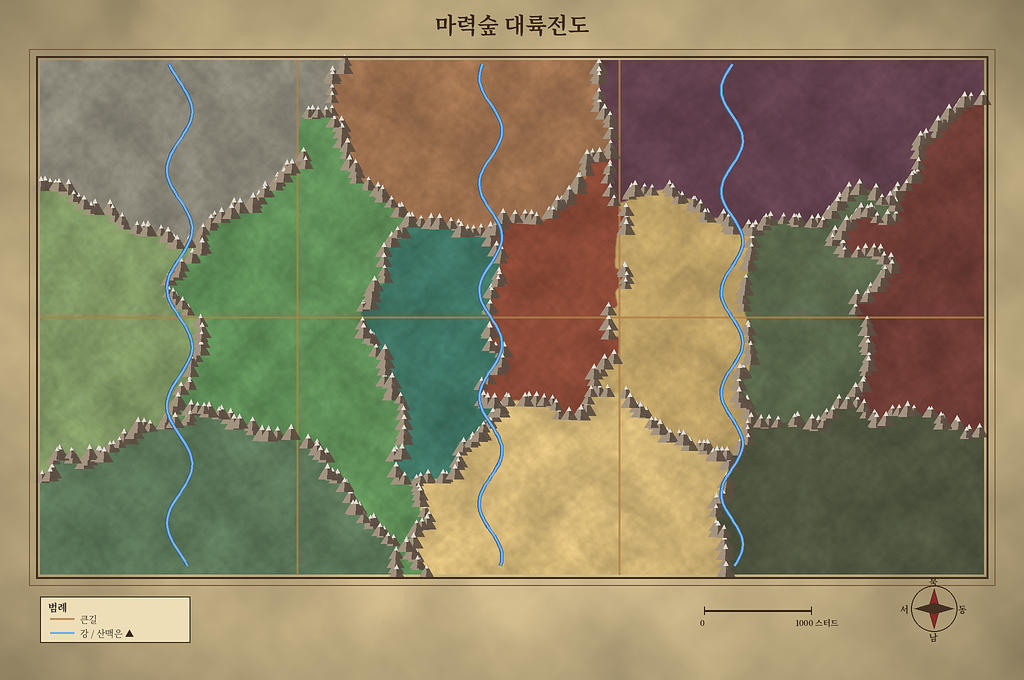
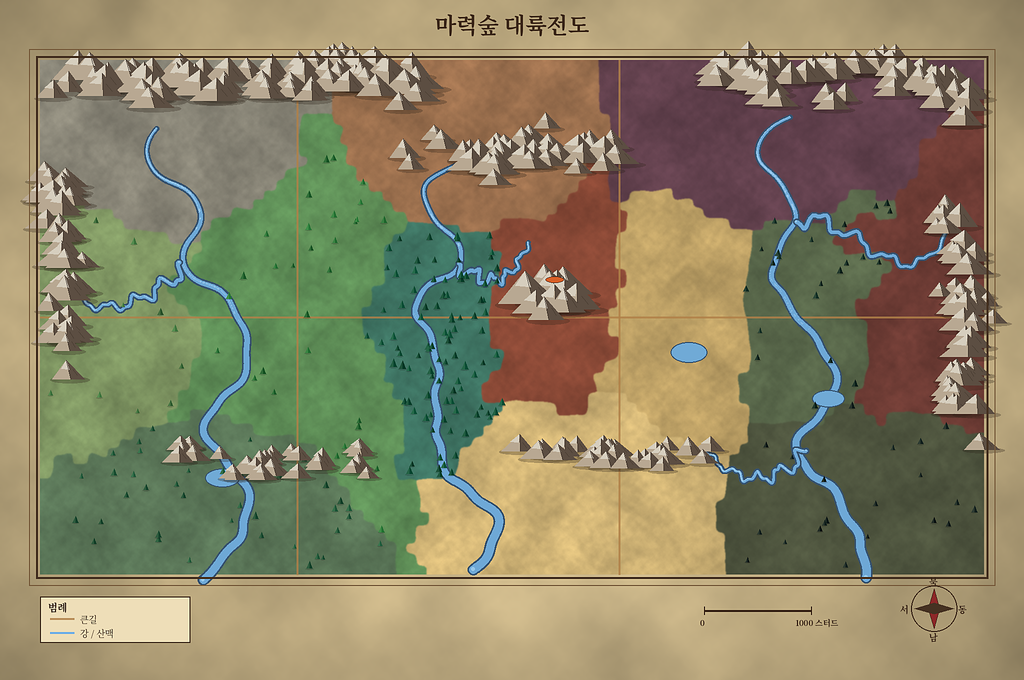
마력숲: 대륙전도 산맥 봉우리 무리·굽이 강/지류/호수·숲 나무
Claude-Session: https://claude.ai/code/session_012UBHYV5VTXizN9awrTGnEM

diff --git a/tools/world-map-gen.py b/tools/world-map-gen.py
@@ -46,31 +46,99 @@ road=(176,128,72,200)
 d.line([(gx(X0),gz(0)),(gx(X1),gz(0))],fill=road,width=3*S//2+1)
 d.line([(gx(0),gz(Z0)),(gx(0),gz(Z1))],fill=road,width=3*S//2+1)
 d.line([(gx(3000),gz(Z0)),(gx(3000),gz(Z1))],fill=road,width=3*S//2+1)
-# 경계 산맥(▲)
-bd=np.zeros((mh,mw),bool)
-bd[:,1:]|=zid[:,1:]!=zid[:,:-1]; bd[1:,:]|=zid[1:,:]!=zid[:-1,:]
-ys,xs=np.nonzero(bd)
-rng=np.random.default_rng(9); placed=[]
-order=rng.permutation(len(ys))
-cell={}
-for i in order:
-    x,y=xs[i],ys[i]; key=(x//(9*S),y//(9*S))
-    if key in cell: continue
-    cell[key]=1
-    px,py=L+x,T+y
-    if abs(gz(0)-py)<5*S or abs(gx(0)-px)<5*S or abs(gx(3000)-px)<5*S: continue
-    h=rng.uniform(7,11)*S; w=h*.9
-    d.polygon([(px-w,py+h*.5),(px,py-h),(px+w,py+h*.5)],fill=(92,78,66,235))
-    d.polygon([(px-w,py+h*.5),(px,py-h),(px-w*.1,py+h*.5)],fill=(168,152,132,235))
-    d.polygon([(px-w*.25,py-h*.55),(px,py-h),(px+w*.25,py-h*.55)],fill=(228,224,214,235))
-# 강
-def river(base,amp):
-    P=[]
-    for z in np.arange(Z0+40,Z1-40,40):
-        P.append((gx(base+amp*.28*np.sin(z/amp*2.4)),gz(z)))
-    d.line(P,fill=(52,100,150,255),width=5*S//2+2,joint='curve')
-    d.line(P,fill=(116,176,228,255),width=3*S//2+1,joint='curve')
-for b,a in [(-1100,420),(1800,380),(4050,360)]: river(b,a)
+# ---- 강: 산기슭에서 바다까지, 굽이치고 지류가 합류하며 하류로 갈수록 넓어진다
+from scipy.interpolate import splprep, splev
+rr=np.random.default_rng(3)
+def spline(pts,n=900):
+    P=np.array([(gx(x),gz(z)) for x,z in pts],float)
+    tck,_=splprep([P[:,0],P[:,1]],s=0,k=min(3,len(P)-1)); u=np.linspace(0,1,n)
+    x,y=splev(u,tck); x=np.array(x); y=np.array(y)
+    dx,dy=np.gradient(x),np.gradient(y); ln=np.hypot(dx,dy)+1e-6
+    nx,ny=-dy/ln,dx/ln
+    ph=rr.random()*6
+    off=(np.sin(u*np.pi*9+ph)*6+np.sin(u*np.pi*23+ph*2)*2.2)*S*(0.35+u*.9)
+    return x+nx*off,y+ny*off
+def draw_river(x,y,w0,w1):
+    n=len(x)
+    for i in range(n):
+        u=i/(n-1); w=(w0+(w1-w0)*u**.8)*S
+        r=w/2+1.6*S
+        d.ellipse([x[i]-r,y[i]-r,x[i]+r,y[i]+r],fill=(56,84,112,255))
+    for i in range(n):
+        u=i/(n-1); w=(w0+(w1-w0)*u**.8)*S
+        r=w/2
+        d.ellipse([x[i]-r,y[i]-r,x[i]+r,y[i]+r],fill=(110,168,214,255))
+        r2=r*.45
+        d.ellipse([x[i]-r2-.5*S,y[i]-r2-.5*S,x[i]+r2-.5*S,y[i]+r2-.5*S],fill=(150,198,232,255))
+rivers=[
+ ([(-1300,-1750),(-1250,-1300),(-900,-950),(-1050,-450),(-650,-150),(-450,350),(-800,900),(-600,1500),(-900,2400)],1.6,7.5),
+ ([(-2150,-250),(-1700,-100),(-1250,-300),(-1050,-450)],1.2,3.2),
+ ([(1500,-1450),(1250,-1000),(1500,-500),(1100,-100),(1350,500),(1250,1000),(1600,1600),(1700,2400)],1.6,8),
+ ([(2150,-700),(1850,-350),(1500,-500)],1.2,3.4),
+ ([(4600,-1850),(4350,-1400),(4650,-900),(4400,-400),(4800,100),(4950,700),(4700,1300),(5200,1900),(5250,2400)],1.6,8),
+ ([(6050,-800),(5650,-500),(5250,-700),(4650,-900)],1.2,3.4),
+ ([(3800,1250),(4300,1500),(4750,1250)],1.1,2.6),
+]
+for pts,w0,w1 in rivers:
+    x,y=spline(pts); draw_river(x,y,w0,w1)
+for (lx_,lz_,rx,rz) in [(3650,330,170,95),(4950,760,150,80),(-700,1500,160,85)]:
+    d.ellipse([gx(lx_)-rx/8800*PW,gz(lz_)-rz/4800*PH,gx(lx_)+rx/8800*PW,gz(lz_)+rz/4800*PH],fill=(112,170,214,255),outline=(56,84,112,255),width=S)
+def tree(px,py,sz,c):
+    d.ellipse([px-sz*.9,py+sz*.5,px+sz*.9,py+sz*.9],fill=(0,0,0,40))
+    d.polygon([(px-sz*.7,py+sz*.55),(px,py-sz*1.1),(px+sz*.7,py+sz*.55)],fill=c+(255,))
+    d.polygon([(px,py-sz*1.1),(px+sz*.7,py+sz*.55),(px,py+sz*.55)],fill=(max(c[0]-26,0),max(c[1]-26,0),max(c[2]-20,0),255))
+zi_name={}
+for l in open('/tmp/luau/map.txt'):
+    if l.startswith('zone '):
+        p=l.split(); zi_name[p[2]]=int(p[1])
+def scatter(zname,count,sz,c,seed):
+    r=np.random.default_rng(seed); k=zi_name[zname]
+    for _ in range(count):
+        x=int(r.integers(8,mw-8)); y=int(r.integers(8,mh-8))
+        if zid[y,x]==k: tree(L+x,T+y,sz*S*r.uniform(.8,1.3),tuple(int(v) for v in (np.array(c)*r.uniform(.85,1.15))))
+scatter("worldtree",1500,3.6,(34,94,66),31)
+scatter("meadow",220,3.2,(56,126,64),32)
+scatter("wetland",420,3.2,(52,104,70),33)
+scatter("windcliff",160,3.0,(78,126,72),34)
+scatter("swamp",380,3.2,(40,64,50),35)
+scatter("deadmarsh",300,3.0,(40,52,44),36)
+peaks=[]
+def range_(pts,wid,dens,hmin,hmax,seed):
+    r=np.random.default_rng(seed)
+    P=np.array([(gx(x),gz(z)) for x,z in pts],float)
+    seg=np.hypot(*np.diff(P,axis=0).T); tot=seg.sum(); cs=np.cumsum(seg)
+    n=int(tot/(dens*S))
+    for i in range(n):
+        t=r.random()*tot; k=min(np.searchsorted(cs,t),len(seg)-1)
+        f=(t-(cs[k]-seg[k]))/seg[k]
+        px=P[k,0]+(P[k+1,0]-P[k,0])*f; py=P[k,1]+(P[k+1,1]-P[k,1])*f
+        o=r.normal(0,wid/8800*PW*.45)
+        ang=np.arctan2(*(P[k+1]-P[k])[::-1])+np.pi/2
+        px+=np.cos(ang)*o; py+=np.sin(ang)*o*.8
+        cen=1-min(1,abs(o)/(wid/8800*PW))
+        h=(hmin+(hmax-hmin)*(0.35+0.65*cen)*r.uniform(.6,1))*S
+        peaks.append((py,px,h,r.uniform(.8,1.2)))
+range_([(-2250,-2250),(-1500,-2100),(-600,-2150),(400,-2200),(1300,-2150)],280,5.5,12,30,41)
+range_([(-2300,-1400),(-2150,-350),(-2250,700)],230,6,10,26,42)
+range_([(1000,-1550),(1700,-1400),(2400,-1550),(3000,-1450)],220,5.5,11,26,43)
+range_([(3900,-2250),(4700,-2100),(5600,-2250),(6300,-1950)],280,5.5,12,30,44)
+range_([(6100,-1100),(6280,-300),(6150,600),(6300,1300)],220,6,10,25,45)
+range_([(-1200,1350),(-300,1450),(700,1350)],190,6.5,9,20,46)
+range_([(2000,1300),(3000,1350),(3900,1300)],190,6.5,9,20,47)
+range_([(2150,-120),(2400,-170),(2650,-90)],200,4.5,16,36,48)
+peaks.sort()
+for py,px,h,k in peaks:
+    w=h*.95*k
+    d.ellipse([px-w*1.1,py-h*.12,px+w*1.3,py+h*.22],fill=(40,30,20,70))
+    lean=w*0.12*(1 if int(px)%2 else -1)
+    top=(px+lean,py-h)
+    d.polygon([(px-w,py),top,(px+w*.15,py)],fill=(184,168,146,255))
+    d.polygon([top,(px+w,py),(px+w*.15,py)],fill=(92,78,66,255))
+    d.polygon([(px-w*.45,py-h*.55),top,(px+w*.05,py-h*.5)],fill=(214,206,190,255))
+    d.line([top,(px+w*.15,py)],fill=(60,48,40,255),width=max(1,S//2))
+    d.line([(px+w*.3,py-h*.5),(px+w*.55,py-h*.2)],fill=(70,58,48,255),width=max(1,S//2))
+vx,vy=gx(2400),gz(-60)
+d.ellipse([vx-9*S,vy-34*S,vx+9*S,vy-28*S],fill=(214,96,40,255),outline=(70,40,30,255))
 # 테두리
 for inset,w,c in [(0,3,(70,50,34)),(7*S,1,(120,92,60))]:
     d.rectangle([L-inset-4*S,T-inset-4*S,R+inset+4*S,B+inset+4*S],outline=c+(255,),width=w*S//2+1)
@@ -85,7 +153,7 @@ lx,ly=L,B+22*S
 d.rectangle([lx,ly,lx+150*S,ly+46*S],fill=(238,222,184,255),outline=(70,50,34,255),width=S)
 d.text((lx+8*S,ly+3*S),"범례",font=F(0,10),fill=(60,40,26,255))
 d.line([(lx+10*S,ly+22*S),(lx+34*S,ly+22*S)],fill=road,width=3*S//2+1); d.text((lx+40*S,ly+16*S),"큰길",font=F(0,9,False),fill=(60,40,26,255))
-d.line([(lx+10*S,ly+36*S),(lx+34*S,ly+36*S)],fill=(116,176,228,255),width=3*S//2+1); d.text((lx+40*S,ly+30*S),"강 / 산맥은 ▲",font=F(0,9,False),fill=(60,40,26,255))
+d.line([(lx+10*S,ly+36*S),(lx+34*S,ly+36*S)],fill=(116,176,228,255),width=3*S//2+1); d.text((lx+40*S,ly+30*S),"강 / 산맥",font=F(0,9,False),fill=(60,40,26,255))
 # 축척
 sx=R-280*S; sy=B+36*S
 km=1000/(X1-X0)*PW
@@ -100,4 +168,4 @@ d.ellipse([cx-r*1.15,cy-r*1.15,cx+r*1.15,cy+r*1.15],outline=(60,40,26,255),width
 for lab,ox,oy in (("북",-5,-r/S-14),("남",-5,r/S+2),("서",-r/S-14,-6),("동",r/S+4,-6)):
     d.text((cx+ox*S,cy+oy*S),lab,font=F(0,9),fill=(60,40,26,255))
 out=im.filter(ImageFilter.UnsharpMask(1.5,50,2)).resize((1024,680),Image.LANCZOS)
-out.save('/tmp/claude-0/map/world-map3.png'); print(out.size, L/S/1024,(R-L)/S/1024,T/S/680,PH/S/680)
+out.save('/tmp/claude-0/map/world-map4.png'); print(out.size, L/S/1024,(R-L)/S/1024,T/S/680,PH/S/680)
